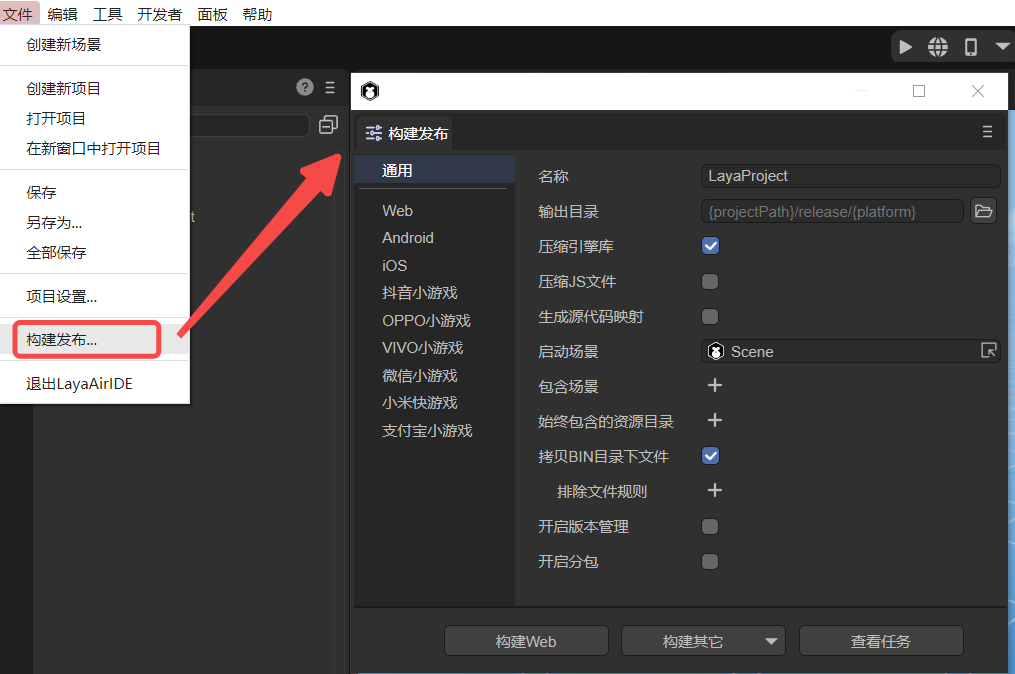
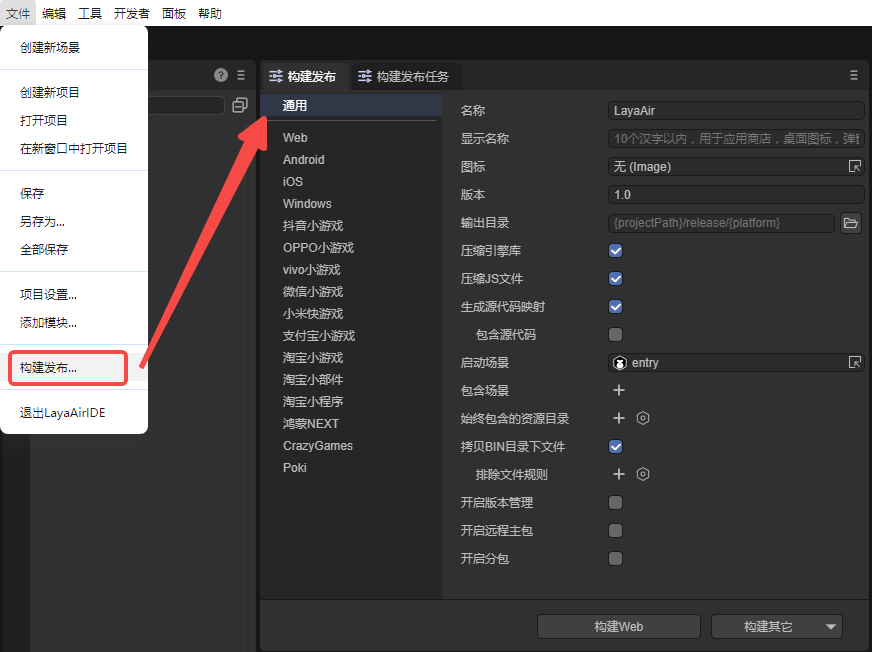
“通用发布”更新

diff --git a/released/generalSetting/readme.md b/released/generalSetting/readme.md
@@ -4,7 +4,7 @@
 
 在LayaAir中完成项目的开发后，需要将项目发布。发布项目是一个将开发者的游戏或应用程序打包并准备部署到目标平台的重要步骤，无论是 web 浏览器、移动设备、还是其他支持的平台。
 
-LayaAir3.1.x在3.0.x的基础上，重构了发包流程。新版本支持批量发布、支持API调用、支持插件扩展。
+最新版本的LayaAir-IDE支持批量发布、支持API调用、支持插件扩展。
 
 
 
@@ -26,6 +26,12 @@ LayaAir3.1.x在3.0.x的基础上，重构了发包流程。新版本支持批量
 
 `名称`：项目的名称（对于Web发布来说，就是html中的title名称）。
 
+`显示名称`：设置显示名称后，显示的将会是显示名称，而不是项目名称。一般都填写中文汉字，英文也可以。用于应用商店、桌面图标、弹窗等游戏入口处。
+
+`图标`：游戏的入口标识，需要提供 `192*192` 的正方形尺寸。
+
+`版本`：版本名称是真实的版本，一般是用于功能性版本的区别。比如，有个大版本改动，原来是1.0，可以变成2.0，如果只是修改Bug，那1.0完全可以改成1.1。建议采用浮点数命名。比如“0.1”、“1.3”、“5.0”……
+
 `输出目录`：输出目录是指要发布到的目标目录，默认在项目的release目录下，**这里不建议更改**。当然，开发者如果有需求自定义输出目录，可以在项目所在的目录，也可以是与项目无关的目录。
 
 `压缩引擎库`：一般建议勾选，勾选后，将使用压缩后的引擎类库，可以减少包体大小。
@@ -33,6 +39,8 @@ LayaAir3.1.x在3.0.x的基础上，重构了发包流程。新版本支持批量
 `压缩JS文件`：一般建议勾选，勾选后，将使用压缩后的JS文件，可以减少包体大小。
 
 `生成源代码映射`：勾选后，输出目录会打包”.js.map“文件，用于源代码映射。
+
+`包含源代码`：sourcemap可以包含源代码，也可以不包含。如果包含，devtools可以直接看到源码。如果不包含，出错时可以看到堆栈提示几行几列，但devtools里看不到源码。
 
 `启动场景`：启动项目运行时的第一个场景。
 
@@ -44,13 +52,15 @@ LayaAir3.1.x在3.0.x的基础上，重构了发包流程。新版本支持批量
 
 `开启版本管理`：勾选后，将会对发布的文件名添加key值用于版本管理映射，可以有效避免缓存或CDN带来的错误加载影响。
 
+`开启远程主包`：勾选后，可以将主包放到远程CDN，用于适配淘宝小部件。如果资源也进行了远程分包，那么本地只剩libs和js。
+
 `开启分包`：勾选后，开启分包功能（详细参考2.6、2.7）。
 
 
 
 ### 2.3 目标平台
 
-目前，目标平台中有九种发布选项，分别为：Web、Android、iOS、抖音小游戏、OPPO小游戏、VIVO小游戏、微信小游戏、小米快游戏、支付宝小游戏。如图2-2所示，选择对应平台后，点击构建即可。
+目前，共有十二种平台可以选择，分别为：Web、Android、iOS、Windows、抖音小游戏、OPPO小游戏、VIVO小游戏、微信小游戏、小米快游戏、支付宝小游戏、淘宝、鸿蒙NEXT。如图2-2所示，选择对应平台后，点击构建即可。
 
 <img src="img/2-2.png" alt="2-2" style="zoom:80%;" />
 
@@ -61,6 +71,8 @@ LayaAir3.1.x在3.0.x的基础上，重构了发包流程。新版本支持批量
 `Android` 是指发布为安卓平台，运行于安卓的APP环境中。
 
 `iOS` 是指发布为iOS平台，运行于iOS的APP环境中。
+
+`Windows`是指发布到[Windows平台](../native/build_Windows/readme.md)，直接点击.exe文件运行。
 
 `抖音小游戏` 是指发布为已适配[抖音小游戏](../miniGame/byteDance/readme.md)的项目。
 
@@ -74,9 +86,13 @@ LayaAir3.1.x在3.0.x的基础上，重构了发包流程。新版本支持批量
 
 `支付宝小游戏`是指发布为已适配[支付宝小游戏](../miniGame/alipaygame/readme.md)的项目。
 
+`淘宝小游戏`是指发布为已适配[淘宝小游戏](../miniGame/tbgame/readme.md)的项目。
+
+`鸿蒙NEXT`是指发布为已适配[鸿蒙NEXT](../native/build_Harmony/readme.md)的项目。
+
 > 本篇主要介绍通用的发布设置，各发布平台可以点击以上链接查看文档。
 
-还可以点击图2-2中的“构建其它”选项，直接发布为对应的平台。发布后，可以在“查看任务”中，看到发布结果。
+还可以点击图2-2中的“构建其它”选项，直接发布为对应的平台。发布后，可以在“构建发布任务”面板中，看到发布结果。
 
 
 
@@ -392,11 +408,11 @@ export class Script extends Laya.Script {
 
 `允许运行时加载`和`自动加载`：一般需要勾选。勾选后，脚本会在运行时自动加载。
 
-`允许发布时压缩`：构建发布时，若设置了“压缩JS文件”，则此脚本会被压缩。
-
 `入口文件`和`包含所有文件`：控制哪些TS脚本一定被包含。分包定义是针对目录的，它在哪个目录，这个目录下的文件就会打进这个分包。
 
 `依赖`：同JS插件一样，都是管理加载顺序的。即可以设置多个脚本，这些脚本将会安排优先载入。
+
+`打包外部引用`：默认是不勾选。勾选后，如果脚本集引用脚本集外面的文件，那么这些文件会一并打包进这个脚本集。如果不勾选，那么那些外部文件不会打包进来。
 
 
 
